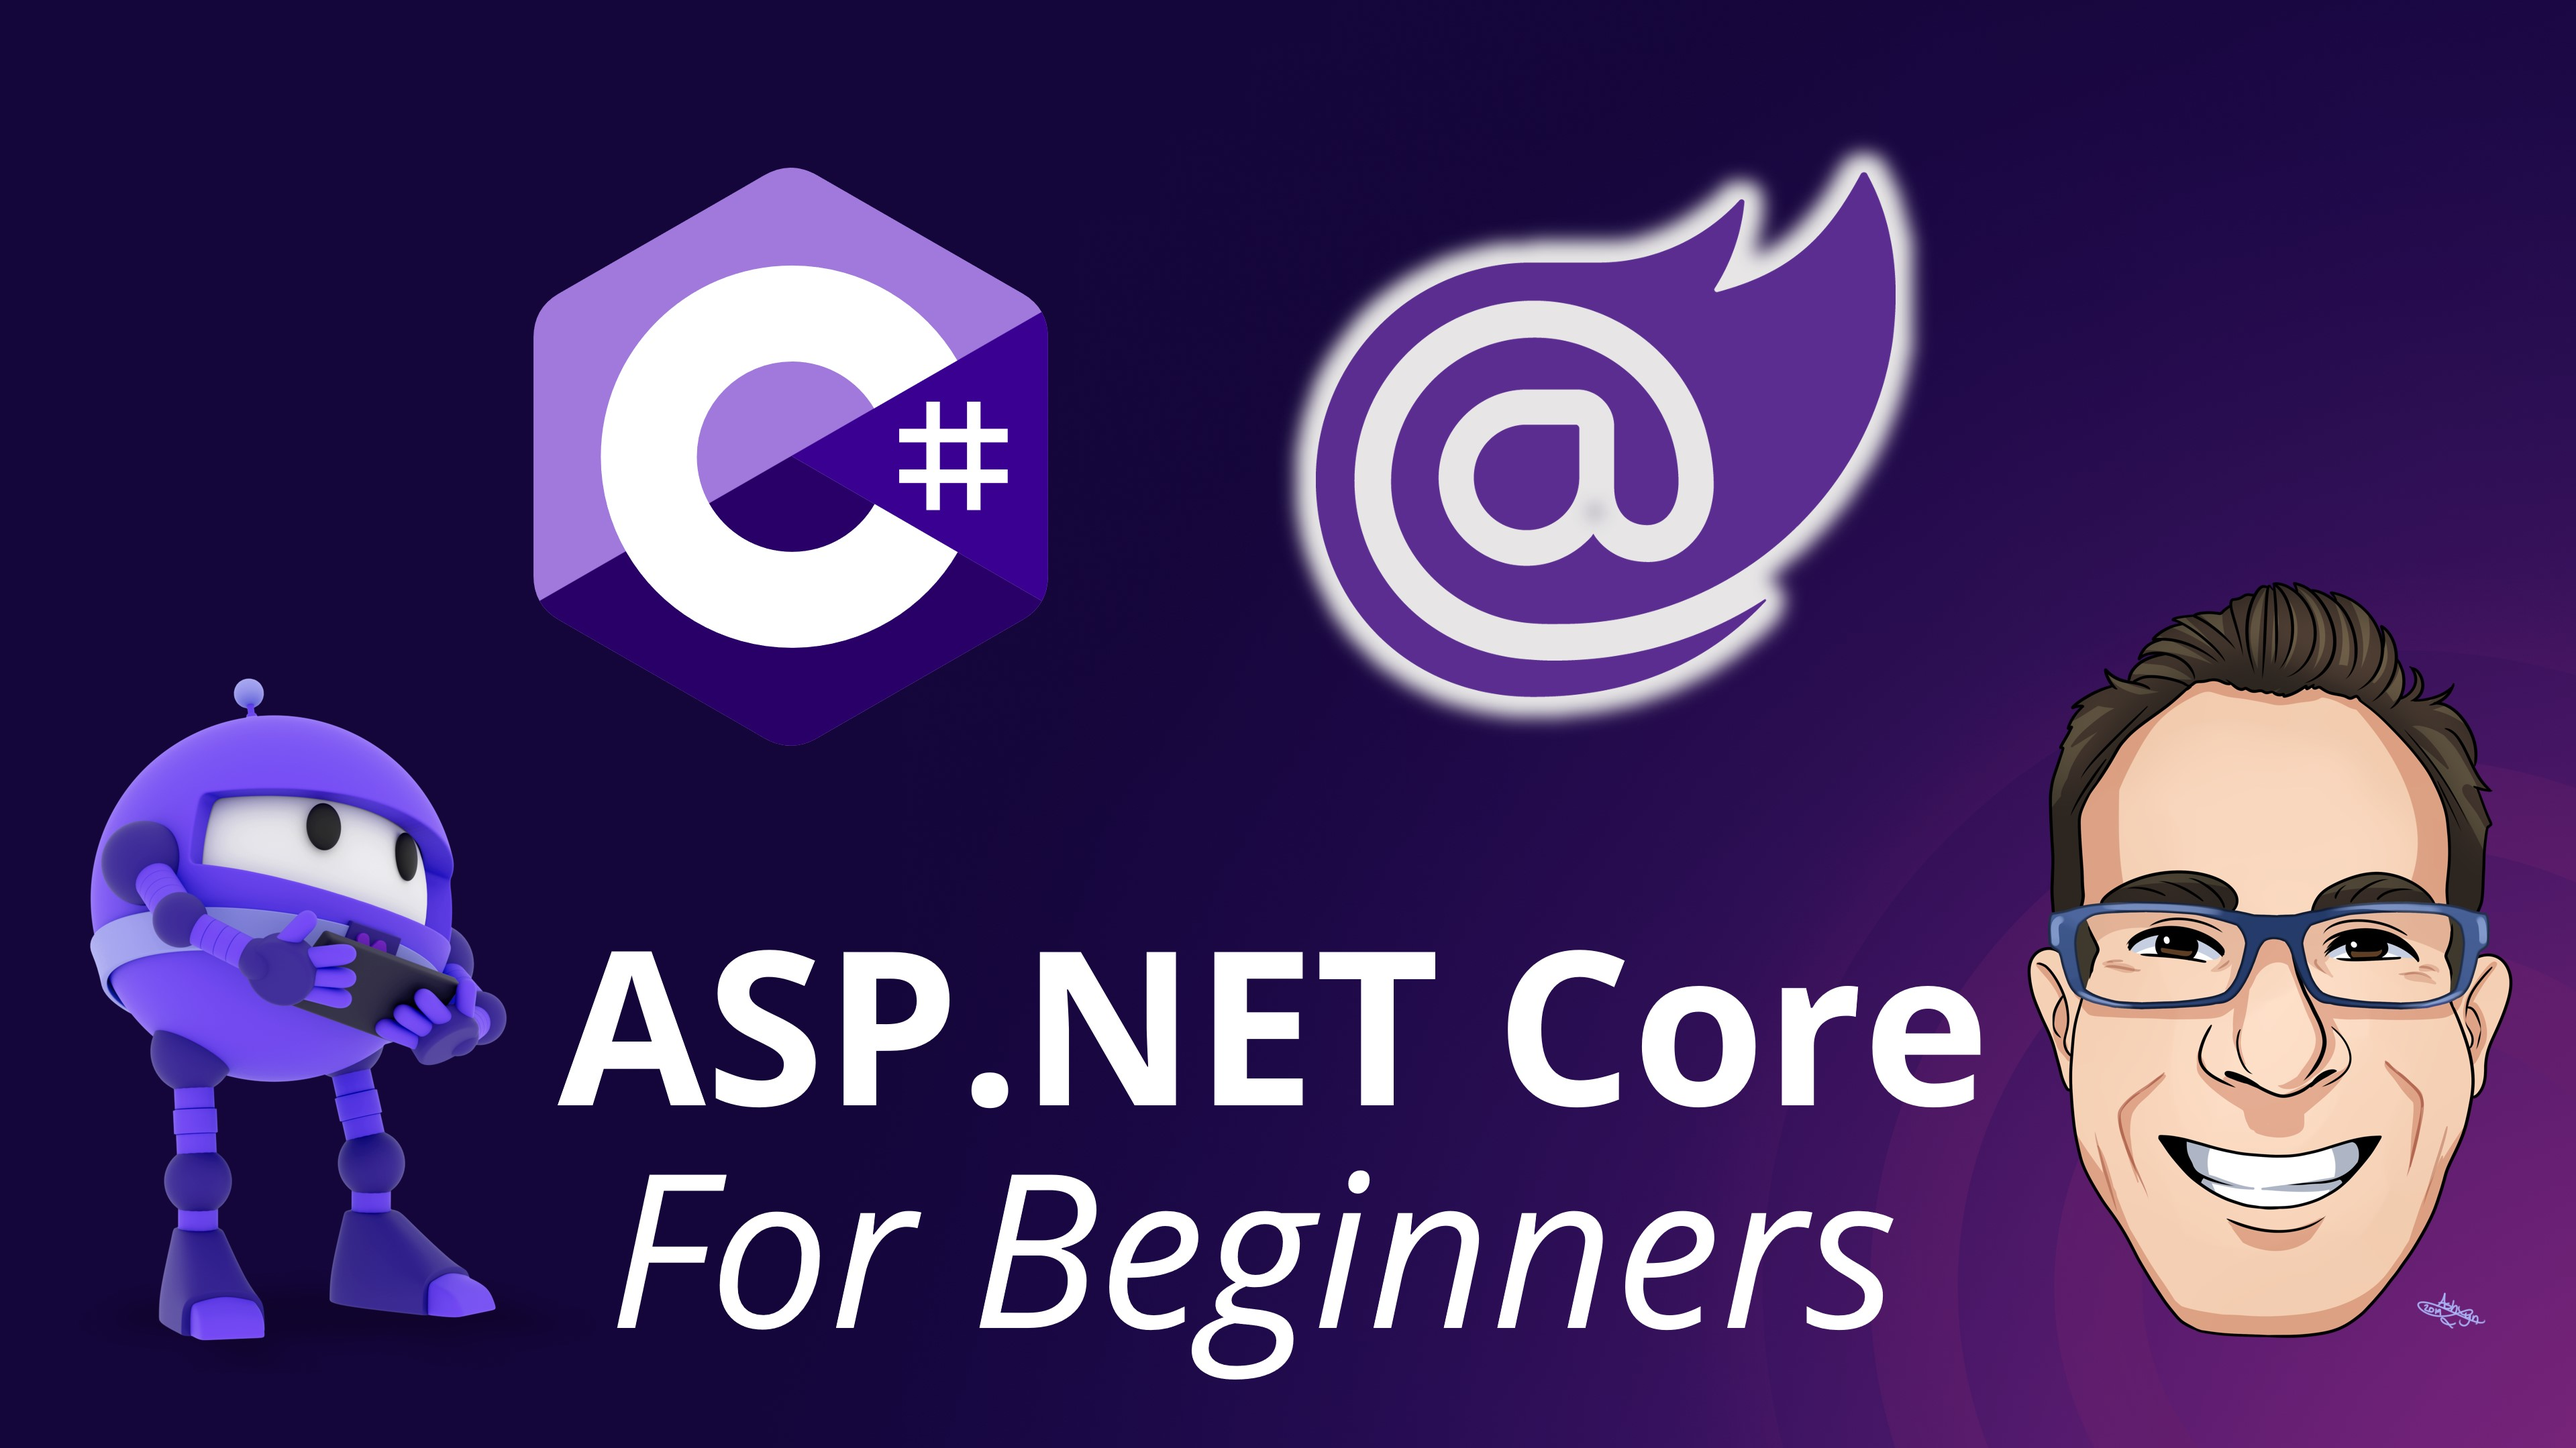
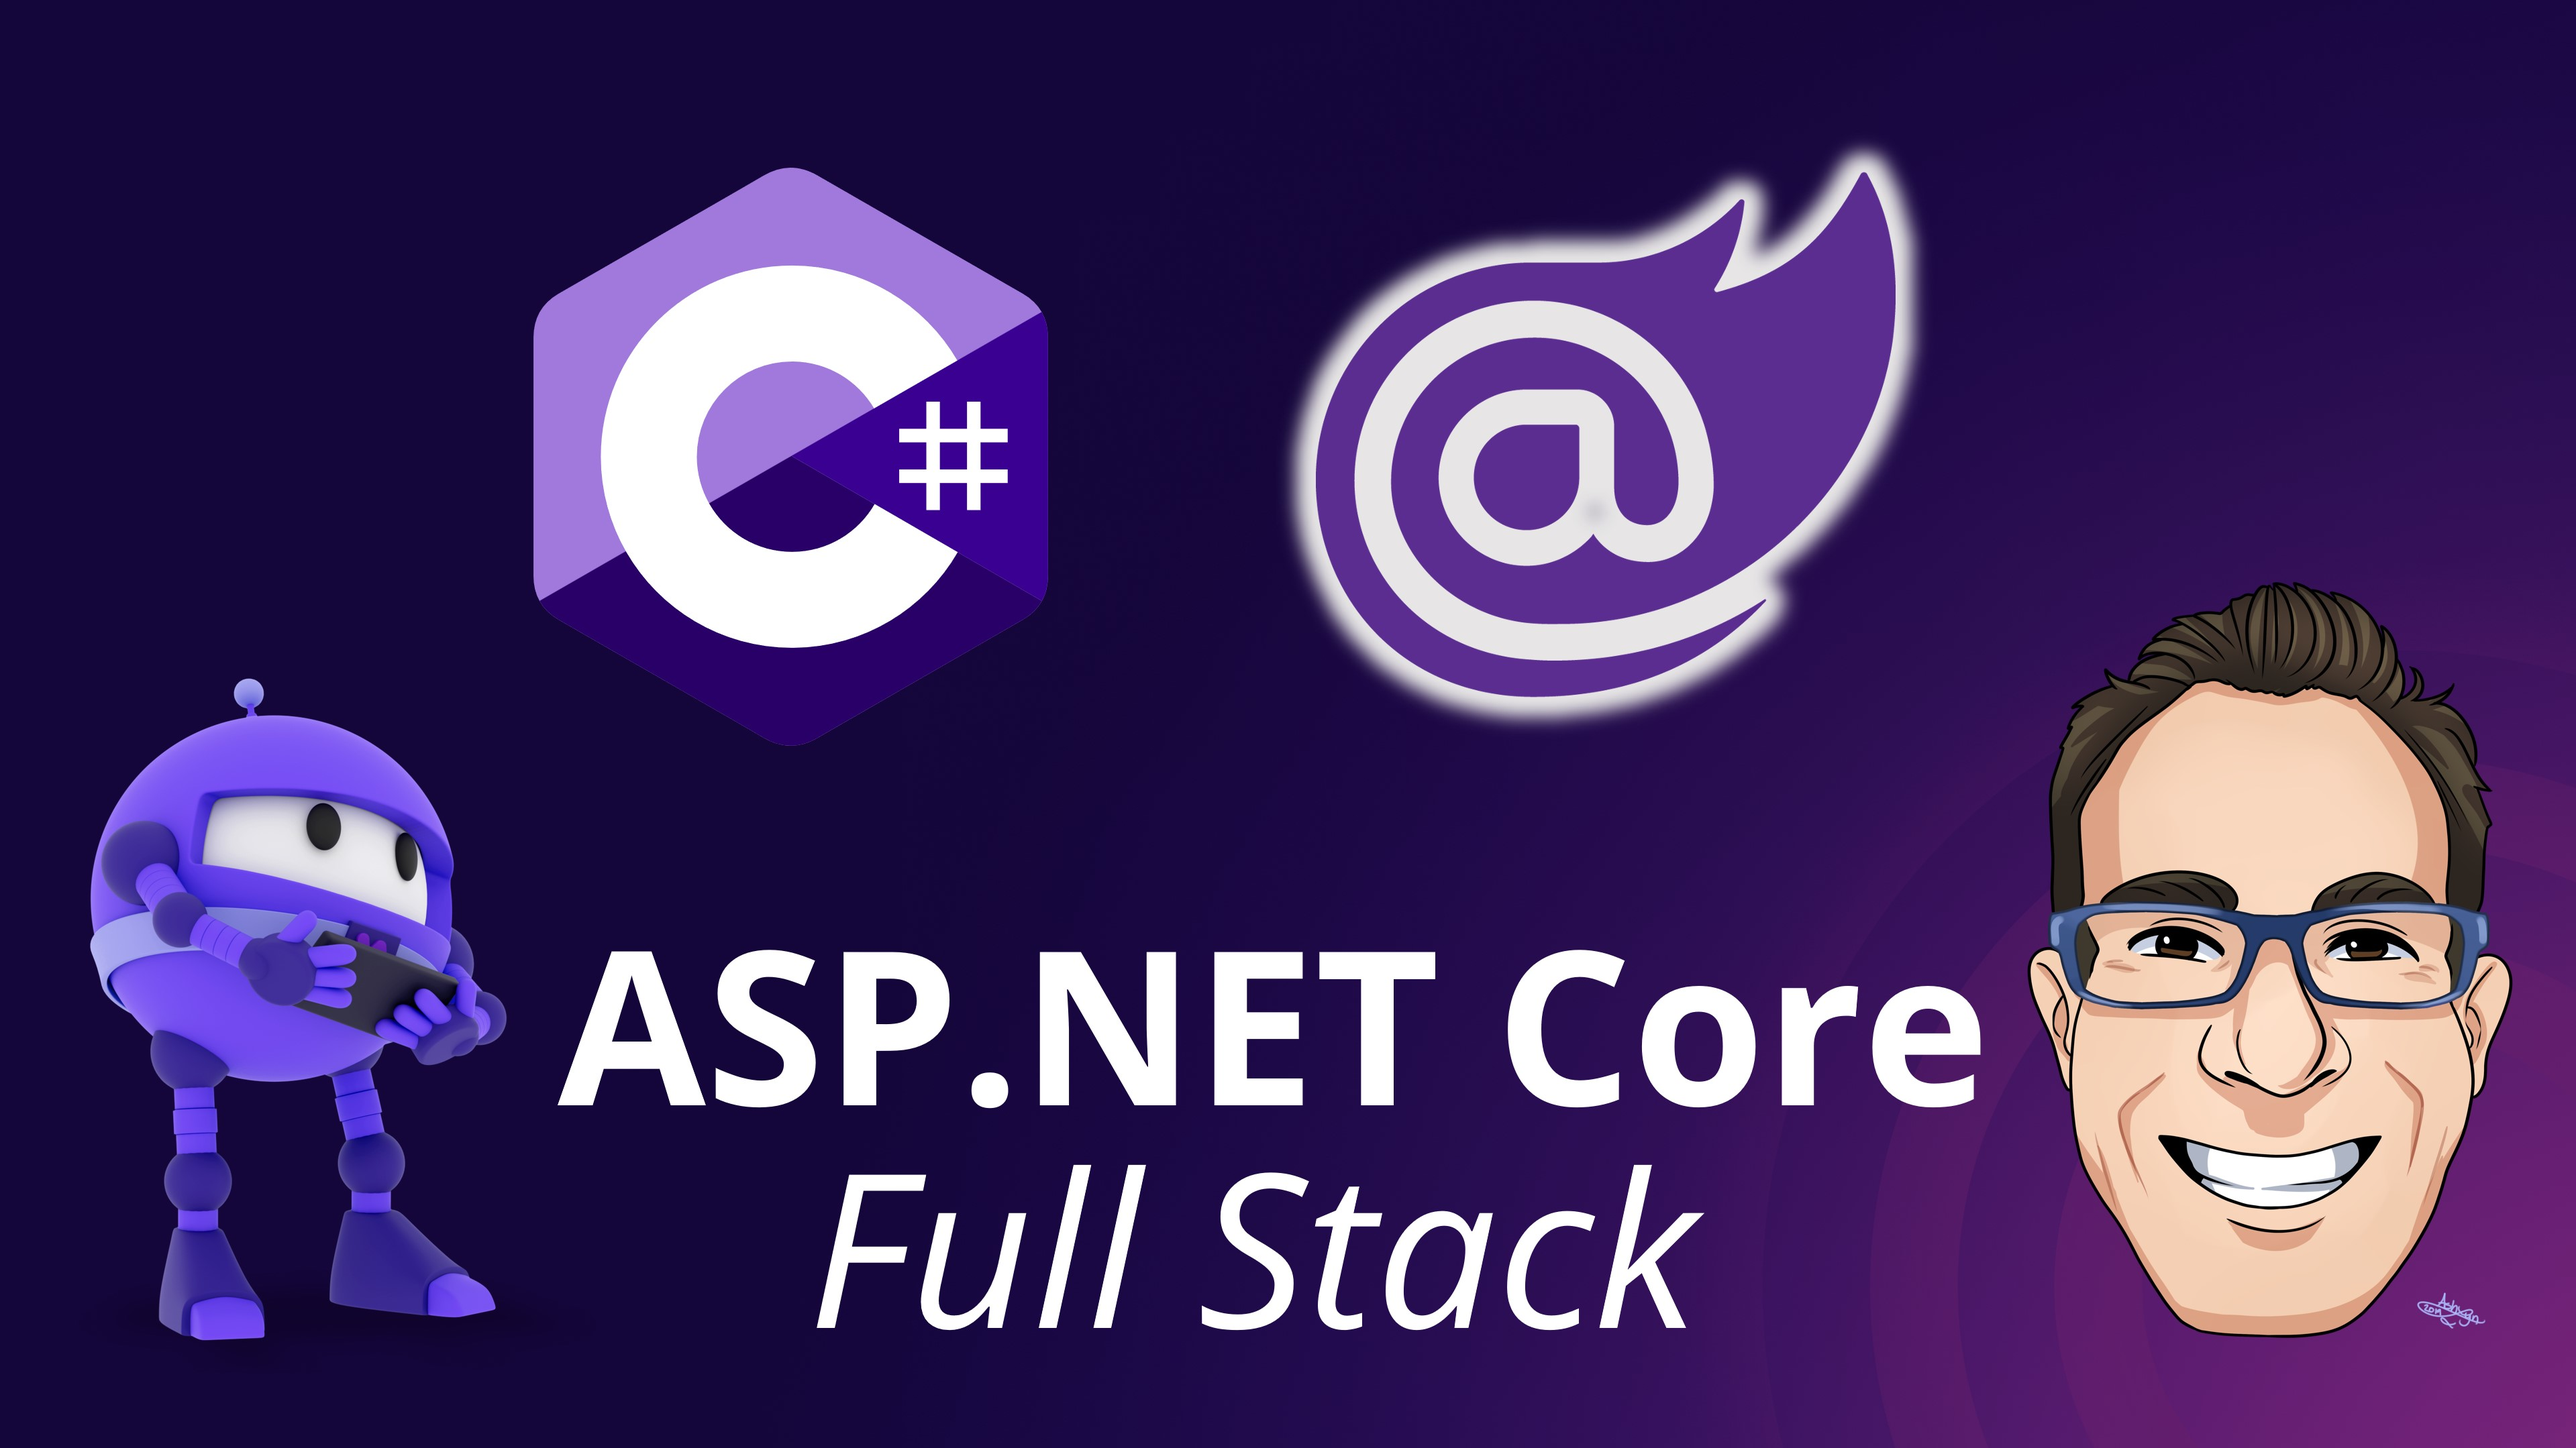
Rename ASP.NET course to ASP.NET Core Full Stack

Changed region(s): [[0.217, 0.8069, 0.7439, 0.962]]

diff --git a/aspnetcore.html b/aspnetcore.html
@@ -52,7 +52,7 @@
     <meta name="twitter:card" content="summary_large_image"> <!-- to have large image post format in Twitter -->
 
     <!-- Webpage Title -->
-    <title>ASP.NET Core For Beginners - ASP.NET Core Course</title>
+    <title>ASP.NET Core Full Stack Online Course</title>
 
     <!-- Styles -->
     <link href="https://fonts.googleapis.com/css2?family=Open+Sans:ital,wght@0,400;0,600;0,700;1,400&display=swap"
@@ -108,7 +108,7 @@
             <div class="row justify-content-center">
                 <div class="col-lg-12">
                     <div class="text-container">
-                        <h1>Become An ASP.NET Core Developer Today!</h1>
+                        <h1>From Zero To Full Stack ASP.NET Core Developer, Step By Step</h1>
                     </div> <!-- end of text-container -->
                 </div> <!-- end of div -->
             </div> <!-- end of row -->
@@ -121,7 +121,7 @@
                                     src="https://player.vimeo.com/video/800109129?h=ec94eb92e0&amp;badge=0&amp;autopause=0&amp;player_id=0&amp;app_id=58479&amp;background=1"
                                     frameborder="0" allow="autoplay; fullscreen; picture-in-picture" allowfullscreen
                                     style="position:absolute;top:0;left:0;width:100%;height:100%;"
-                                    title="ASP.NET Core For Beginners"></iframe>
+                                    title="ASP.NET Core Full Stack"></iframe>
                                 <span id="play-button" class="video-play-button" onclick="playVideo();">
                                     <span></span>
                                 </span>
@@ -161,13 +161,13 @@
         <div class="container">
             <div class="row mt-4">
                 <div class="col-lg-12">
-                    <h2 class="h2-heading">ASP.NET Core For Beginners</h2>
+                    <h2 class="h2-heading">ASP.NET Core Full Stack Online Course</h2>
                 </div> <!-- end of col -->
             </div> <!-- end of row -->
             <div class="row">
                 <div class="col-lg-12">
                     <div class="text-container">
-                        <p>ASP.NET Core For Beginners is a complete online course designed to take C# developers new to
+                        <p>ASP.NET Core Full Stack is a complete online course designed to take C# developers new to
                             the
                             platform through a carefully crafted path to discover the power of the ASP.NET Core
                             platform, by building a complete ASP.NET Core web application, step by step, that
@@ -1072,7 +1072,7 @@
                 <div class="col-lg-12 mb-2">
                     <div class="text-container">
                         <h4>When does the program start and finish?</h4>
-                        <p>ASP.NET Core For Beginners is a completely self-paced online program. You decide when
+                        <p>ASP.NET Core Full Stack is a completely self-paced online program. You decide when
                             you start and when you finish.</p>
                         <h4>What version of .NET and ASP.NET Core is used on this program?</h4>
                         <p>.NET 7 and ASP.NET Core 7.</p>

diff --git a/aspnetcore-enroll.html b/aspnetcore-enroll.html
@@ -53,7 +53,7 @@
     <meta name="robots" content="noindex">
 
     <!-- Webpage Title -->
-    <title>ASP.NET Core For Beginners - ASP.NET Core Course</title>
+    <title>ASP.NET Core Full Stack Online Course</title>
 
     <!-- Styles -->
     <link href="https://fonts.googleapis.com/css2?family=Open+Sans:ital,wght@0,400;0,600;0,700;1,400&display=swap"
@@ -109,7 +109,7 @@
             <div class="row justify-content-center">
                 <div class="col-lg-12">
                     <div class="text-container">
-                        <h1>Become An ASP.NET Core Developer Today!</h1>
+                        <h1>From Zero To Full Stack ASP.NET Core Developer, Step By Step</h1>
                     </div> <!-- end of text-container -->
                 </div> <!-- end of div -->
             </div> <!-- end of row -->
@@ -122,7 +122,7 @@
                                     src="https://player.vimeo.com/video/800109129?h=ec94eb92e0&amp;badge=0&amp;autopause=0&amp;player_id=0&amp;app_id=58479&amp;background=1"
                                     frameborder="0" allow="autoplay; fullscreen; picture-in-picture" allowfullscreen
                                     style="position:absolute;top:0;left:0;width:100%;height:100%;"
-                                    title="ASP.NET Core For Beginners"></iframe>
+                                    title="ASP.NET Core Full Stack"></iframe>
                                 <span id="play-button" class="video-play-button" onclick="playVideo();">
                                     <span></span>
                                 </span>
@@ -162,13 +162,13 @@
         <div class="container">
             <div class="row mt-4">
                 <div class="col-lg-12">
-                    <h2 class="h2-heading">ASP.NET Core For Beginners</h2>
+                    <h2 class="h2-heading">ASP.NET Core Full Stack Online Course</h2>
                 </div> <!-- end of col -->
             </div> <!-- end of row -->
             <div class="row">
                 <div class="col-lg-12">
                     <div class="text-container">
-                        <p>ASP.NET Core For Beginners is a complete online course designed to take C# developers new to
+                        <p>ASP.NET Core Full Stack is a complete online course designed to take C# developers new to
                             the
                             platform through a carefully crafted path to discover the power of the ASP.NET Core
                             platform, by building a complete ASP.NET Core web application, step by step, that
@@ -1065,7 +1065,7 @@
                 <div class="col-lg-12 mb-2">
                     <div class="text-container">
                         <h4>When does the program start and finish?</h4>
-                        <p>ASP.NET Core For Beginners is a completely self-paced online program. You decide when
+                        <p>ASP.NET Core Full Stack is a completely self-paced online program. You decide when
                             you start and when you finish.</p>
                         <h4>What version of .NET and ASP.NET Core is used on this program?</h4>
                         <p>.NET 7 and ASP.NET Core 7.</p>

diff --git a/courses.html b/courses.html
@@ -171,8 +171,8 @@
                             <img class="img-fluid" src="images/aspnet_course_image.jpg" alt="alternative">
                         </div>
                         <div class="card-body">
-                            <h5>ASP.NET Core For Beginners</h5>
-                            <p>From zero to a full stack ASP.NET Core web application, step by step.</p>
+                            <h5>ASP.NET Core Full Stack</h5>
+                            <p>From zero to full stack ASP.NET Core developer, step by step.</p>
                         </div>
                         <div class="button-wrapper mb-4">
                             <a class="btn-solid-reg" href="aspnetcore.html">Learn More</a>
